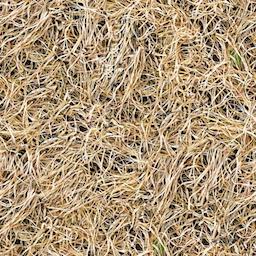
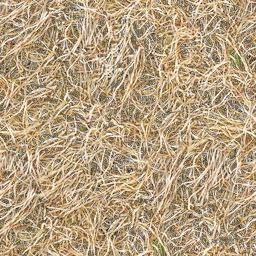
Tweaking

diff --git a/demos/src/demo2.cpp b/demos/src/demo2.cpp
@@ -79,9 +79,9 @@ void save_fb(std::string path, int width, int height)
 }
 
 
-int main(int arc, const char* argv[])
+int main(int argc, const char* argv[])
 {
-	seen::RendererGL renderer("./data/", argv[0], 16, 16);
+	seen::RendererGL renderer("./data/", argv[0], 32, 32);
 	seen::ListScene scene;
 	seen::Sky sky;
 	seen::Camera camera(M_PI / 5, renderer.width, renderer.height);
@@ -127,7 +127,7 @@ int main(int arc, const char* argv[])
 	bale_pass.preparation_function = [&]()
 	{
 
-		vec3 light_dir = { rf() - 0.5f, 0, rf() - 0.5f };
+		vec3 light_dir = { rf() - 0.5f, -0.25, rf() * 2 - 1 };
 		vec3 axis = { 0.0, 1.0, 0.0 };
 		vec3_norm(axis, axis);
 		quat_from_axis_angle(q_bale_ori.v, axis[0], axis[1], axis[2], rf() * 2 * M_PI);
@@ -146,7 +146,7 @@ int main(int arc, const char* argv[])
 		vec4 albedo = { 1, 1, 1, 1 };
 
 		glUniform1f(uv_rot_uniform, rf() * 2 * M_PI);
-		glUniform1f(green_uniform, 0.5 + rf() * 1.5);
+		glUniform1f(green_uniform, 0.75 + rf() * 0.25);
 		glUniform4fv(material_uniform, 1, (GLfloat*)material);
 		glUniform4fv(albedo_uniform, 1, (GLfloat*)albedo);
 		glUniform3fv(light_dir_uniform, 1, (GLfloat*)light_dir);
@@ -189,14 +189,23 @@ int main(int arc, const char* argv[])
 	scene.drawables().push_back(&bale_pass);
 
 	//while(renderer.is_running())
-	for(int i = atoi(argv[2]); i--;)
+	int i = argc >= 3 ? atoi(argv[2]) : 100;
+	for(; renderer.is_running() && i--;)
 	{
 		glClearColor(rf(), rf(), rf(), 1);
 
 		camera.fov(M_PI / (2 + (rf() * 16)));
 
 		renderer.draw(&camera, &scene);
-		save_fb(argv[1], 32, 32);
+
+		if (argc >= 2)
+		{
+			save_fb(argv[1], 32, 32);
+		}
+		else
+		{
+			sleep(1);
+		}
 	}
 
 	return 0;
